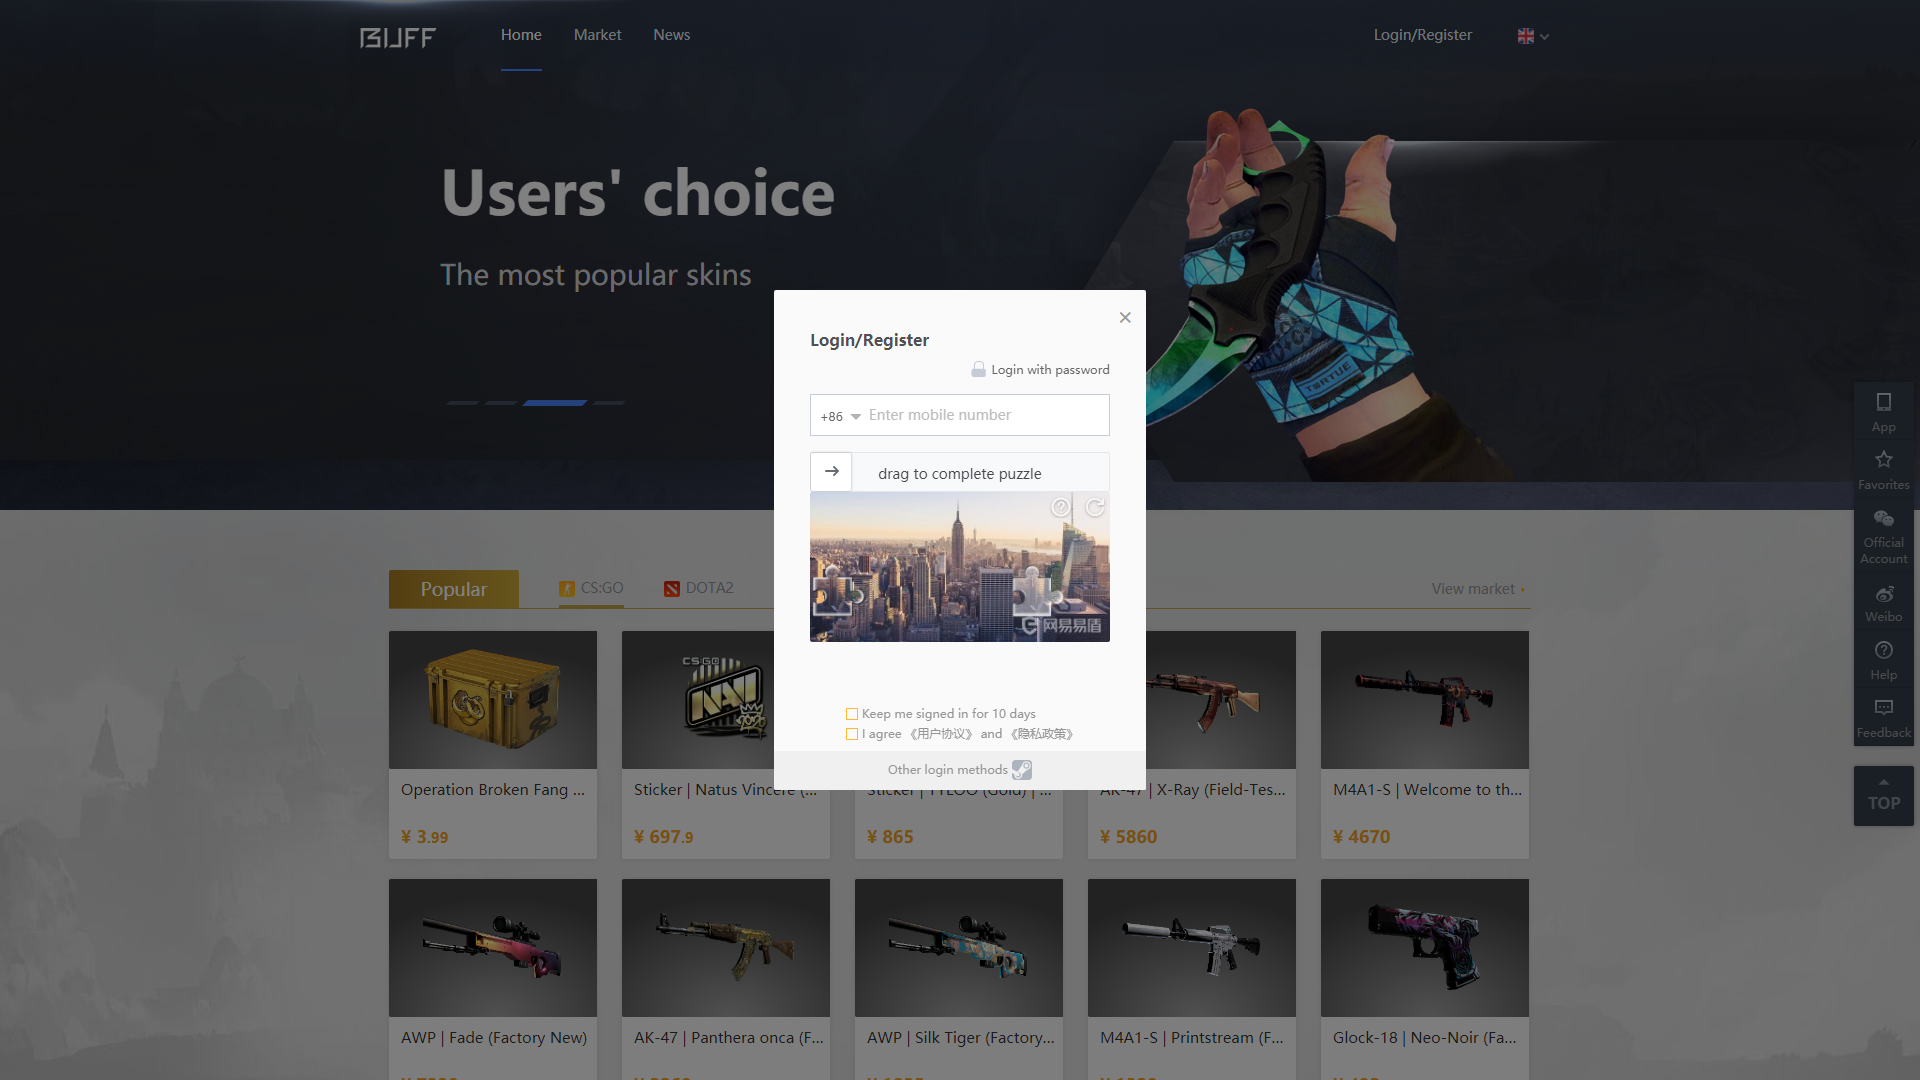
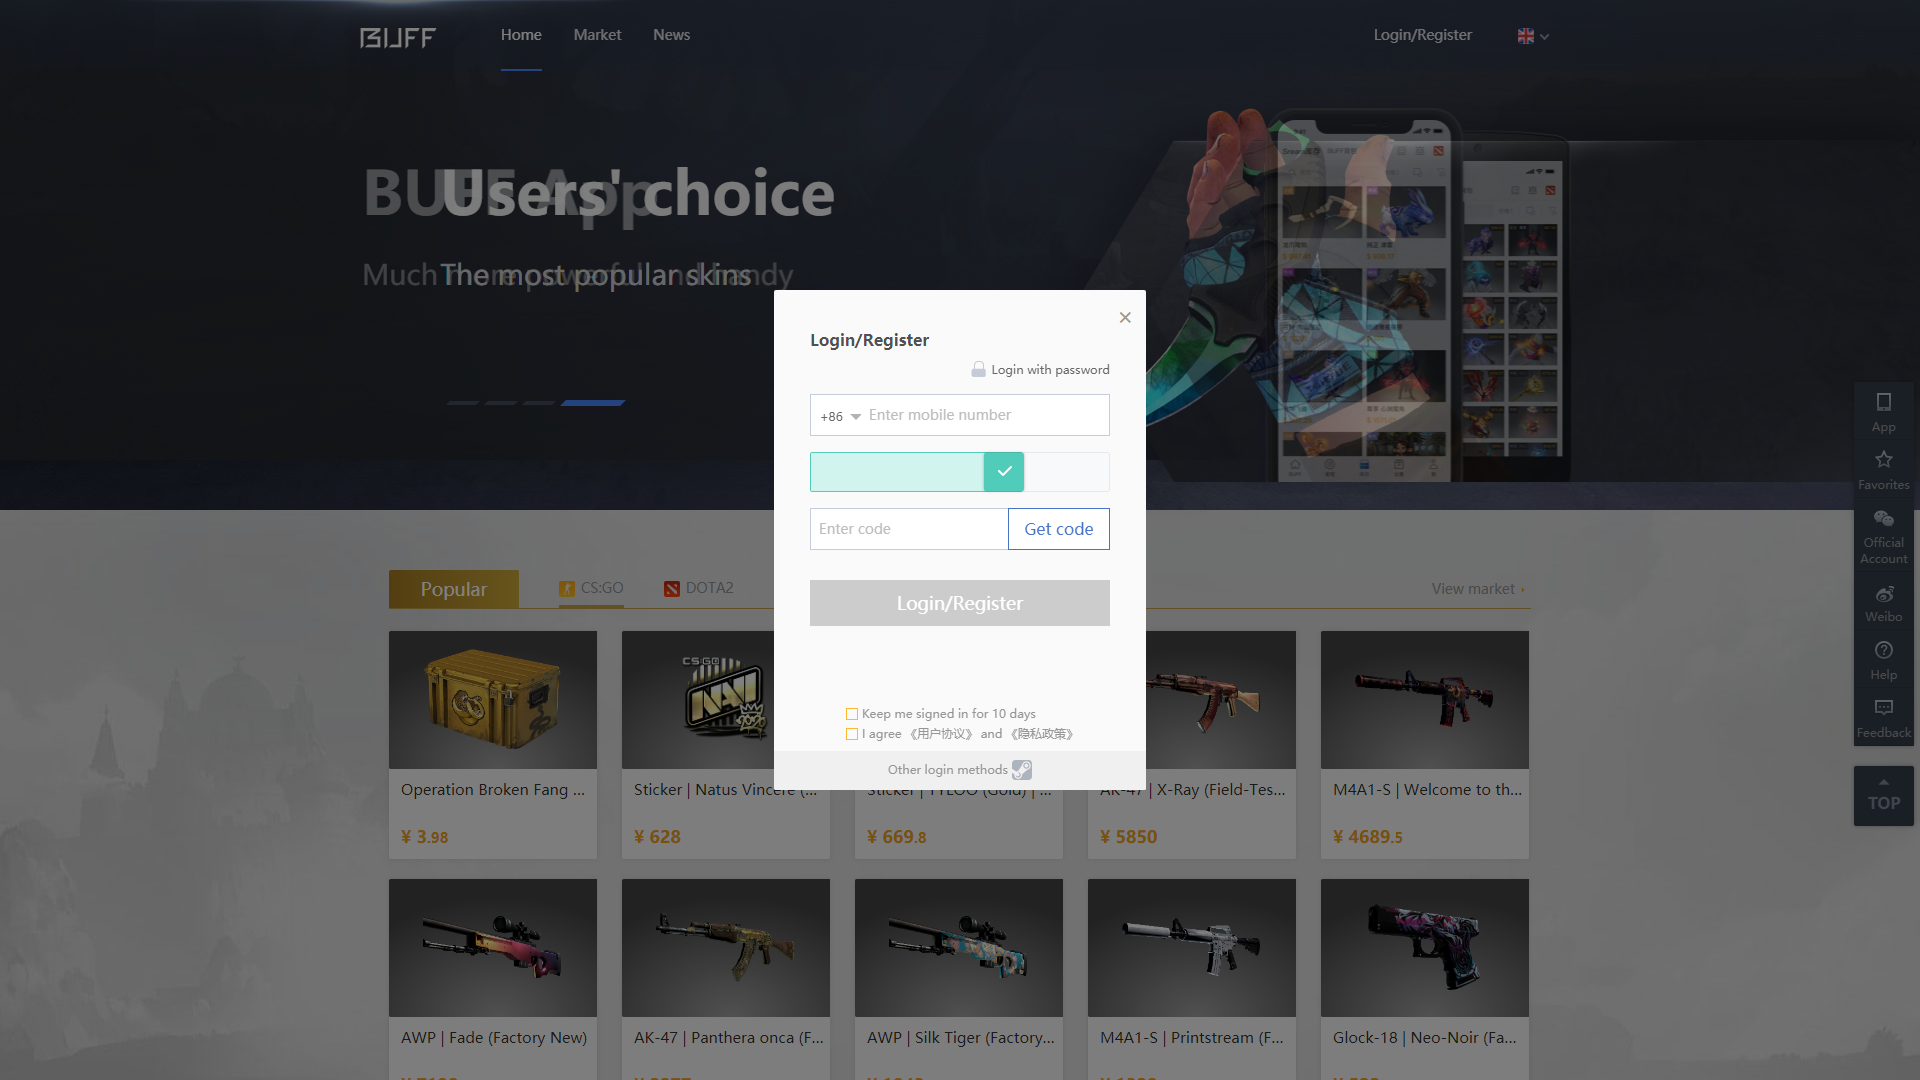
captcha bypass

diff --git a/index.js b/index.js
@@ -1,8 +1,7 @@
-const fs = require('fs').promises;
 const puppeteer = require('puppeteer');
 const axios = require('axios');
-const { cv, cvTranslateError } = require('opencv-wasm');
-const Jimp = require('jimp');
+
+const captchaSolver = require('./captchaSolver');
 
 function getBase64(url) {
   return axios
@@ -30,48 +29,31 @@ function getBase64(url) {
   await loginFrame.waitForSelector('.yidun_bg-img', { timeout: 5000 });
   await loginFrame.waitForSelector('.yidun_jigsaw', { timeout: 5000 });
 
-  const [yidun_bg_img] = await loginFrame.$$eval('.yidun_bg-img', (el) => el.map((x) => x.getAttribute('src')));
-  const [yidun_jigsaw] = await loginFrame.$$eval('.yidun_jigsaw', (el) => el.map((x) => x.getAttribute('src')));
-  const captcha = await getBase64(yidun_bg_img);
-  const jigsaw = await getBase64(yidun_jigsaw);
-  await fs.writeFile('./captcha.png', captcha, 'base64');
-  await fs.writeFile('./jigsaw.png', jigsaw, 'base64');
-  try {
-    const imageSource = await Jimp.read(Buffer.from(captcha, 'base64'));
-    const imageTemplate = await Jimp.read(Buffer.from(jigsaw, 'base64'));
-    const src = cv.matFromImageData(imageSource.bitmap);
-    const templ = cv.matFromImageData(imageTemplate.bitmap);
-    const processedImage = new cv.Mat();
-    const mask = new cv.Mat();
-
-    cv.matchTemplate(src, templ, processedImage, cv.TM_CCOEFF_NORMED, mask);
-    cv.threshold(processedImage, processedImage, 0.999, 1, cv.THRESH_BINARY);
-    processedImage.convertTo(processedImage, cv.CV_8UC1);
-
-    const contours = new cv.MatVector();
-    const hierarchy = new cv.Mat();
-
-    cv.findContours(processedImage, contours, hierarchy, cv.RETR_EXTERNAL, cv.CHAIN_APPROX_SIMPLE);
-    for (let i = 0; i < contours.size(); ++i) {
-      const countour = contours.get(i).data32S; // Contains the points
-      const x = countour[0];
-      const y = countour[1];
-
-      const color = new cv.Scalar(0, 255, 0, 255);
-      const pointA = new cv.Point(x, y);
-      const pointB = new cv.Point(x + templ.cols, y + templ.rows);
-      cv.rectangle(src, pointA, pointB, color, 2, cv.LINE_8, 0);
+  const captchaBypass = async () => {
+    try {
+      const [yidun_bg_img] = await loginFrame.$$eval('.yidun_bg-img', (el) => el.map((x) => x.getAttribute('src')));
+      const [yidun_jigsaw] = await loginFrame.$$eval('.yidun_jigsaw', (el) => el.map((x) => x.getAttribute('src')));
+      const captcha = await getBase64(yidun_bg_img);
+      const jigsaw = await getBase64(yidun_jigsaw);
+      const sliderHandle = await loginFrame.$('.yidun_control .yidun_slider');
+      const handle = await sliderHandle.boundingBox();
+      await page.mouse.move(handle.x + handle.width / 2, handle.y + handle.height / 2);
+      await page.mouse.down();
+      const { x } = await captchaSolver(captcha, jigsaw);
+      await page.mouse.move(
+        handle.x + x + handle.width / 3,
+        handle.y + handle.height / 2,
+        { steps: 10 },
+      );
+      await page.mouse.up();
+      await loginFrame.waitForSelector('.yidun--success', { timeout: 2000 });
+      await page.waitForTimeout(3000);
+    } catch (error) {
+      console.log('try again');
+      await captchaBypass();
     }
-
-    new Jimp({
-      width: src.cols,
-      height: src.rows,
-      data: Buffer.from(src.data),
-    })
-      .write(`${__dirname}/test-output/template-matching.png`);
-  } catch (err) {
-    // console.log(cvTranslateError(cv, err));
-  }
+  };
+  await captchaBypass();
   await page.screenshot({ path: 'example.png' });
 
   await browser.close();

diff --git a/captchaSolver.js b/captchaSolver.js
@@ -1,0 +1,20 @@
+const { cv, cvTranslateError } = require('opencv-wasm');
+const Jimp = require('jimp');
+
+module.exports = async (captcha, jigsaw) => {
+  try {
+    const imageSource = await Jimp.read(Buffer.from(captcha, 'base64'));
+    const imageTemplate = await Jimp.read(Buffer.from(jigsaw, 'base64'));
+    const src = cv.matFromImageData(imageSource.bitmap);
+    const templ = cv.matFromImageData(imageTemplate.bitmap);
+    const dst = new cv.Mat();
+    const mask = new cv.Mat();
+    cv.matchTemplate(src, templ, dst, cv.TM_CCOEFF, mask);
+    const result = cv.minMaxLoc(dst, mask);
+    const maxPoint = result.maxLoc;
+    return maxPoint;
+  } catch (err) {
+    console.log(cvTranslateError(cv, err));
+    return Promise.reject();
+  }
+};
